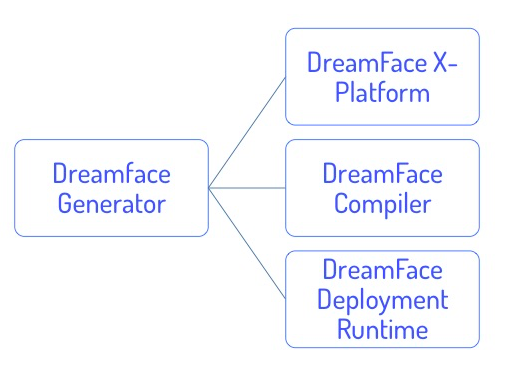
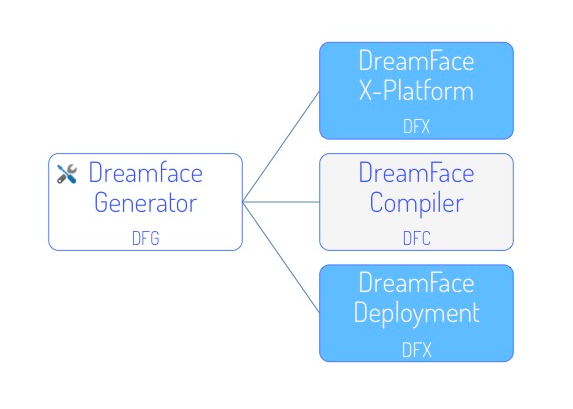
Updated names of of Platform components for consistency

diff --git a/source/devguide/dfx-platform-architecture.rst b/source/devguide/dfx-platform-architecture.rst
@@ -4,13 +4,13 @@ Architecture of the DreamFace Platform
 The DreamFace Cloud Platform that you use to develop applications is a cloud-based, multitenant development platform built on :term:`MEAN Stack` technologies.
 
 
-.. image:: ../images/diagrams/dfd-generator2.png
+.. image:: ../images/diagrams/dfd-dfgenerator.png
 
 The DreamFace Cloud Platform is composed of:
 
-* **DreamFace X-Platform** is a Cloud Application Platform used to develop and deploy desktop and mobile applications.
-* **DreamFace Application Compiler** is used to compile and manage different builds of your DreamFace application.
-* **DreamFace Application Generator** is a tool used during installation to generate development, compiler and deployment environments.
+* **DreamFace X-Platform** is a cloud-based platform used to develop and deploy desktop and mobile applications.
+* **DreamFace Compiler** is used to compile and manage different builds of your DreamFace application.
+* **DreamFace Generator** is a tool used during installation to generate development, compiler and deployment environments.
 
 
 DreamFace (DFX) and the DreamFace Compiler (DFC) are node modules. Node apps that use DreamFace need to have dependencies on DFX and DFC.
@@ -21,8 +21,8 @@ To install the DreamFace Cloud Platform, 3 node apps must be created:
 * (comp) one for the compiler which depends on DFC
 * (dep) one for deployment which depends on DFX
 
-The DreamFace Application Generator is a node module that can be installed globally and is used to create the environment that
-generates the 3 node apps: dev, comp and dep.
+The DreamFace Generator is a node module that can be installed globally and is used to create the environment that generates the
+3 node apps: dev, comp and dep.
 
 
 |
